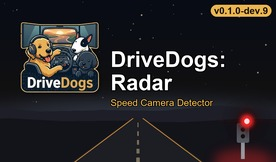
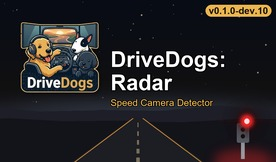
test an aux-driven lamp material on a windshield lightboard, since cab models never draw flares
round 9: the sun visor leds show outside only. the owner's scania lightboard glows inside and out from
a single light.tex material, and the lamp shader follows aux on aux_light parts, so dev.10 repoints a
copied lightboard's light piece to our eut2.lamp material.

Changed region(s): [[0.7246, 0.0, 0.9855, 0.1235]]

diff --git a/tools/build_mod.py b/tools/build_mod.py
@@ -73,6 +73,44 @@ VISOR_POC = {
     # truck: (base accessory def, LED x positions, LED y, LED z)  - model axes: z- = forward
     "scania.s_2016": ("def/vehicle/truck/scania.s_2016/accessory/sunshld/stock.sii", (-0.45, 0.45), -0.09, -0.02),
 }
+# TEST (dev.10): materials render in the cab (owner's Scania centre-windshield lightboard glows inside
+# and out; it is lit by one `eut2.light.tex` material following parking lights). The lamp shader
+# follows aux on parts with `electric_type: aux_light` (SCS Blender Tools: aux mask R = dim, G = bright,
+# UV tile x 0 = white). So: copy the Griffin lightboard into frntglss_mid and point its light piece at our
+# eut2.lamp material, using the board's own LED texture as base and mask.
+LED_POC = {
+    # truck: (base lightboard model, light material to replace)
+    "scania.s_2016": ("vehicle/truck/upgrade/frntglass_mid/scania_rcab_2009/lightboard01",
+                      "/automat/ba/ba6d368f32889c80.mat"),
+}
+LED_MAT = "/automat/dd/ddradar000led001.mat"   # same length as the replaced path (patched in place)
+LED_MAT_TEXT = """effect : "eut2.lamp.add.env.rfx" {
+	additional_ambient : 0.000000
+	diffuse : { 1.000000 , 1.000000 , 1.000000 }
+	env_factor : { 0.380056 , 0.380056 , 0.380056 }
+	fresnel : { 0.200000 , 0.900000 }
+	shininess : 90.000000
+	specular : { 0.447988 , 0.447988 , 0.447988 }
+	texture : "texture_base" {
+		source : "/vehicle/truck/upgrade/frntglass_mid/scania_rcab_2009/griff01l.tobj"
+		u_address : clamp
+		v_address : clamp
+	}
+	texture : "texture_mask" {
+		source : "/vehicle/truck/upgrade/frntglass_mid/scania_rcab_2009/griff01l.tobj"
+		u_address : clamp
+		v_address : clamp
+	}
+	texture : "texture_reflection" {
+		source : "/material/environment/vehicle_reflection.tobj"
+		u_address : clamp
+		v_address : clamp
+		w_address : clamp
+		aniso : disabled
+	}
+}
+"""
+
 VISOR_VARIANTS = [
     # (suffix, name label, hookup)
     ("", "", "flare.vehicle.ddr_blink"),                 # aux blink - the design
@@ -144,6 +182,47 @@ accessory_addon_data : {unit}.{truck}.sunshld
 }}
 """)
             built.append(f"{truck}{label}")
+    return built
+
+
+def build_led_tests(base, stage, base_pmg):
+    """TEST (see LED_POC): aux-driven lamp-material lightboard in the centre windshield slot."""
+    built = []
+    os.makedirs(os.path.dirname(os.path.join(stage, LED_MAT.lstrip("/"))), exist_ok=True)
+    with open(os.path.join(stage, LED_MAT.lstrip("/")), "w", newline="\n") as fh:
+        fh.write(LED_MAT_TEXT)
+    for truck, (model, old_mat) in LED_POC.items():
+        if len(old_mat) != len(LED_MAT):
+            raise ValueError("material path lengths differ - cannot patch the pmd in place")
+        with open(os.path.join(base, model + ".pmd"), "rb") as fh:
+            pmd = fh.read()
+        if pmd.count(old_mat.encode()) != 1:
+            raise ValueError(f"{old_mat} not found exactly once in {model}.pmd")
+        dst = f"vehicle/truck/upgrade/ddradar/led_{truck.replace('.', '_')}"
+        with open(os.path.join(stage, dst + ".pmd"), "wb") as fh:
+            fh.write(pmd.replace(old_mat.encode(), LED_MAT.encode()))
+        with open(os.path.join(stage, dst + ".pmg"), "wb") as fh:
+            fh.write(base_pmg(model).data)
+        d = os.path.join(stage, "def", "vehicle", "truck", truck, "accessory", "frntglss_mid")
+        os.makedirs(d, exist_ok=True)
+        with open(os.path.join(d, "ddrled.sii"), "w", newline="\n") as fh:
+            fh.write(f"""SiiNunit
+{{
+accessory_addon_data : ddrled.{truck}.frntglss_mid
+{{
+	name: "DriveDogs Radar LED board TEST"
+	price: 480
+	unlock: 0
+	icon: "frntglass_mid/scania_rcab_2009/lightboard01"
+	part_type: aftermarket
+	electric_type: aux_light
+
+	exterior_model: "/{dst}.pmd"
+	interior_model: "/{dst}.pmd"
+}}
+}}
+""")
+        built.append(truck)
     return built
 
 
@@ -269,6 +348,7 @@ def main():
         fh.write(base_pmg(CAB_UNIT_SRC).with_locators(AUX_PART_LOCATORS))
     aux_trucks = write_aux_parts(args.base, stage)
     visors = build_visors(args.base, stage, base_pmg)
+    leds = build_led_tests(args.base, stage, base_pmg)
 
     # one unknown attribute makes the game drop a whole .sii file (round 5) - never pack that
     lint = subprocess.run([sys.executable, os.path.join(ROOT, "tools", "lint_units.py"), "--base", args.base])
@@ -285,7 +365,7 @@ def main():
     with open(os.path.join(ROOT, "build", "placements.json"), "w", newline="\n") as fh:
         json.dump(placed, fh, indent=1)
     print(f"{len(placed)} camera models, cab unit for {len(trucks)} trucks, aux TEST part for "
-          f"{len(aux_trucks)} trucks, radar sun visor POC: {', '.join(visors)} -> {package} "
+          f"{len(aux_trucks)} trucks, radar sun visor POC: {', '.join(visors)}, LED board TEST: {', '.join(leds)} -> {package} "
           f"({os.path.getsize(package) // 1024} KB)")
 
 

diff --git a/docs/POC-PLAN.md b/docs/POC-PLAN.md
@@ -97,7 +97,7 @@ Result 1.61: 707 cameras; Berlin = 30× `speed_camera_ch` (white pole + grey box
 ## Test checklist — v0.1.0-dev.1 (one session)
 
 Setup: remove `ddradar_spike1.scs` / `ddradar_spike2.scs` and older `drivedog_radar_v*.scs`; copy
-`drivedog_radar_v0.1.0-dev.9.scs` to the mod folder and enable it (needs **Toys DLC** — POC unit body).
+`drivedog_radar_v0.1.0-dev.10.scs` to the mod folder and enable it (needs **Toys DLC** — POC unit body).
 Keep Garage-j1 Radar disabled. Re-fit the windshield unit (saves still reference the removed spike part).
 
 **A. Camera strobe** (Berlin is ideal: 30 cameras)
@@ -166,6 +166,18 @@ dev.4 test matrix (all on the GPS body, roof aux TEST part fitted):
 | D | `flare_vehicle` (steady), aux | does aux drive a cab flare (without blink) |
 
 Beacon is **not** an alternative: same "lamp must be fitted" rule, and the owner uses it for special transport.
+
+### Round 9 (dev.9, log `202610082251`) + dev.10 - lamp material instead of flares
+
+- Visor TEST A (always on): LEDs **visible from outside (cam 2) only**, not from the cab.
+- Owner tip: the Scania centre-windshield lightboard (`frntglss_mid`) glows inside **and** outside (follows
+  parking lights). Base lightboards have **no flares** - one `eut2.light.tex` material. Materials render in
+  the cab; flares in cab models do not (in gameplay).
+- SCS Blender Tools lamp mask: vehicle lamps = UV tile x by side, RGBA by lamp type; **aux parts**
+  (`electric_type: aux_light`): UV tile x 0 = white / 1 = orange, **R = dim, G = bright**.
+- dev.10 TEST: "DriveDogs Radar LED board TEST" (Scania S `frntglss_mid`) = Griffin lightboard copy whose
+  light material path is patched (same length) to our `eut2.lamp.add.env` material (base = mask = the
+  board's LED texture), `electric_type: aux_light`. Expect: glows with roof aux, inside and out.
 
 ### dev.9 - radar sun visor POC (owner chose option 1, 2026-10-08; Scania S first)
 
